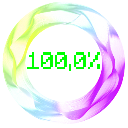
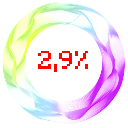
Crystal block WIP...

Changed region(s): [[0.2188, 0.375, 0.7812, 0.5625]]

diff --git a/src/main/java/com/zeitheron/thaumicadditions/blocks/BlockCrystal.java b/src/main/java/com/zeitheron/thaumicadditions/blocks/BlockCrystal.java
@@ -1,0 +1,74 @@
+package com.zeitheron.thaumicadditions.blocks;
+
+import com.pengu.hammercore.common.blocks.base.BlockDeviceHC;
+import com.pengu.hammercore.common.blocks.base.iBlockOrientable;
+import com.pengu.hammercore.common.utils.WorldUtil;
+import com.zeitheron.thaumicadditions.tiles.TileCrystalBlock;
+
+import net.minecraft.block.material.Material;
+import net.minecraft.block.state.IBlockState;
+import net.minecraft.creativetab.CreativeTabs;
+import net.minecraft.entity.EntityLivingBase;
+import net.minecraft.item.ItemStack;
+import net.minecraft.util.EnumFacing;
+import net.minecraft.util.NonNullList;
+import net.minecraft.util.math.BlockPos;
+import net.minecraft.world.IBlockAccess;
+import net.minecraft.world.World;
+import thaumcraft.api.aspects.Aspect;
+import thaumcraft.api.crafting.IInfusionStabiliser;
+
+public class BlockCrystal extends BlockDeviceHC<TileCrystalBlock> implements iBlockOrientable, IInfusionStabiliser
+{
+	public BlockCrystal()
+	{
+		super(Material.ROCK, TileCrystalBlock.class, "crystal_block");
+	}
+	
+	public int getColor(IBlockState state, IBlockAccess worldIn, BlockPos pos, int tintIndex)
+	{
+		TileCrystalBlock tcb = WorldUtil.cast(worldIn.getTileEntity(pos), TileCrystalBlock.class);
+		if(tcb != null)
+			return tcb.getAspect().getColor();
+		return 0xFFFFFF;
+	}
+	
+	@Override
+	public void getSubBlocks(CreativeTabs itemIn, NonNullList<ItemStack> items)
+	{
+		super.getSubBlocks(itemIn, items);
+	}
+	
+	@Override
+	public void getDrops(NonNullList<ItemStack> drops, IBlockAccess world, BlockPos pos, IBlockState state, int fortune)
+	{
+	}
+	
+	@Override
+	public IBlockState getStateForPlacement(World worldIn, BlockPos pos, EnumFacing facing, float hitX, float hitY, float hitZ, int meta, EntityLivingBase placer)
+	{
+		TileCrystalBlock tcb = new TileCrystalBlock();
+		tcb.setAspect(Aspect.AURA);
+		worldIn.setTileEntity(pos, tcb);
+		
+		return getDefaultState().withProperty(iBlockOrientable.FACING, facing);
+	}
+	
+	@Override
+	public boolean canStabaliseInfusion(World worldIn, BlockPos pos)
+	{
+		return true;
+	}
+	
+	@Override
+	public boolean isOpaqueCube(IBlockState state)
+	{
+		return false;
+	}
+	
+	@Override
+	public boolean isFullBlock(IBlockState state)
+	{
+		return false;
+	}
+}

diff --git a/src/main/java/com/zeitheron/thaumicadditions/tiles/TileCrystalBlock.java b/src/main/java/com/zeitheron/thaumicadditions/tiles/TileCrystalBlock.java
@@ -1,0 +1,60 @@
+package com.zeitheron.thaumicadditions.tiles;
+
+import java.util.Random;
+
+import com.pengu.hammercore.common.utils.WorldUtil;
+import com.pengu.hammercore.tile.TileSyncable;
+import com.pengu.hammercore.tile.iTileDroppable;
+import com.zeitheron.thaumicadditions.api.AspectUtil;
+
+import net.minecraft.entity.player.EntityPlayer;
+import net.minecraft.nbt.NBTTagCompound;
+import net.minecraft.util.math.BlockPos;
+import net.minecraft.world.World;
+import net.minecraftforge.common.util.Constants.NBT;
+import thaumcraft.api.aspects.Aspect;
+
+public class TileCrystalBlock extends TileSyncable implements iTileDroppable
+{
+	private Aspect aspect;
+	
+	public Aspect getAspect()
+	{
+		if(aspect == null)
+		{
+			Aspect[] asps = Aspect.aspects.values().toArray(new Aspect[0]);
+			aspect = asps[new Random().nextInt(asps.length)];
+		}
+		
+		return aspect;
+	}
+	
+	public void setAspect(Aspect aspect)
+	{
+		this.aspect = aspect;
+		getAspect();
+		sendChangesToNearby();
+	}
+	
+	@Override
+	public void writeNBT(NBTTagCompound nbt)
+	{
+		if(aspect != null)
+			nbt.setString("Aspect", aspect.getTag());
+	}
+	
+	@Override
+	public void readNBT(NBTTagCompound nbt)
+	{
+		if(nbt.hasKey("Aspect", NBT.TAG_STRING))
+			aspect = Aspect.getAspect(nbt.getString("Aspect"));
+		getAspect();
+	}
+	
+	@Override
+	public void createDrop(EntityPlayer player, World world, BlockPos pos)
+	{
+		if(!world.isRemote && (player == null || !player.capabilities.isCreativeMode) && aspect != null)
+			WorldUtil.spawnItemStack(world, pos, AspectUtil.crystalEssence(getAspect(), 9));
+	}
+}

diff --git a/src/main/java/com/zeitheron/thaumicadditions/proxy/ClientProxy.java b/src/main/java/com/zeitheron/thaumicadditions/proxy/ClientProxy.java
@@ -66,6 +66,7 @@ public class ClientProxy extends CommonProxy
 		// Adding custom color handlers
 		Minecraft.getMinecraft().getItemColors().registerItemColorHandler(ItemsTAR.SALT_ESSENCE::getItemColor, ItemsTAR.SALT_ESSENCE);
 		Minecraft.getMinecraft().getItemColors().registerItemColorHandler(ItemsTAR.ENTITY_CELL::getColor, ItemsTAR.ENTITY_CELL);
+		Minecraft.getMinecraft().getBlockColors().registerBlockColorHandler(BlocksTAR.CRYSTAL_BLOCK::getColor, BlocksTAR.CRYSTAL_BLOCK);
 		
 		// Add custom TESRs
 		
@@ -92,6 +93,18 @@ public class ClientProxy extends CommonProxy
 		ClientRegistry.bindTileEntitySpecialRenderer(TileCrystalBore.class, crybo);
 		ItemRenderingHandler.INSTANCE.setItemRender(Item.getItemFromBlock(BlocksTAR.CRYSTAL_BORE), crybo);
 		Minecraft.getMinecraft().getRenderItem().registerItem(Item.getItemFromBlock(BlocksTAR.CRYSTAL_BORE), 0, "chest");
+		
+		{
+			ModelResourceLocation cryloc = new ModelResourceLocation(BlocksTAR.CRYSTAL_BLOCK.getRegistryName(), "normal");
+			ModelLoader.setCustomStateMapper(BlocksTAR.CRYSTAL_BLOCK, new StateMapperBase()
+			{
+				@Override
+				protected ModelResourceLocation getModelResourceLocation(IBlockState state)
+				{
+					return cryloc;
+				}
+			});
+		}
 		
 		// Fluid state mapping.
 		mapFluid(BlocksTAR.CRYSTAL_WATER);

diff --git a/src/main/java/com/zeitheron/thaumicadditions/init/BlocksTAR.java b/src/main/java/com/zeitheron/thaumicadditions/init/BlocksTAR.java
@@ -6,6 +6,7 @@ import com.zeitheron.thaumicadditions.blocks.BlockAspectCombiner;
 import com.zeitheron.thaumicadditions.blocks.BlockAuraCharger;
 import com.zeitheron.thaumicadditions.blocks.BlockAuraDisperser;
 import com.zeitheron.thaumicadditions.blocks.BlockCraftingFurnace;
+import com.zeitheron.thaumicadditions.blocks.BlockCrystal;
 import com.zeitheron.thaumicadditions.blocks.BlockCrystalBore;
 import com.zeitheron.thaumicadditions.blocks.BlockCrystalCrusher;
 import com.zeitheron.thaumicadditions.blocks.BlockCrystalWater;
@@ -33,6 +34,7 @@ public class BlocksTAR
 	public static final BlockCrystalBore CRYSTAL_BORE = new BlockCrystalBore();
 	public static final BlockEntitySummoner ENTITY_SUMMONER = new BlockEntitySummoner();
 	public static final BlockPuriflower PURIFLOWER = new BlockPuriflower();
+	public static final BlockCrystal CRYSTAL_BLOCK = new BlockCrystal();
 	
 	public static final BlockAbstractEssentiaJar<TileBrassJar> BRASS_JAR = new BlockAbstractEssentiaJar<>(TileBrassJar.class, 275, "jar_brass");
 	public static final BlockAbstractEssentiaJar<TileThaumiumJar> THAUMIUM_JAR = new BlockAbstractEssentiaJar<>(TileThaumiumJar.class, 350, "jar_thaumium");

diff --git a/src/main/java/com/zeitheron/thaumicadditions/TAReconstructed.java b/src/main/java/com/zeitheron/thaumicadditions/TAReconstructed.java
@@ -42,7 +42,7 @@ import thaumcraft.api.research.ResearchCategories;
 import thaumcraft.api.research.ResearchCategory;
 import thaumcraft.common.entities.monster.EntityPech;
 
-@Mod(modid = InfoTAR.MOD_ID, name = InfoTAR.MOD_NAME, version = InfoTAR.MOD_VERSION, certificateFingerprint = "4d7b29cd19124e986da685107d16ce4b49bc0a97", dependencies = "required-after:hammercore;required-after:thaumcraft@[6.1.BETA14,)")
+@Mod(modid = InfoTAR.MOD_ID, name = InfoTAR.MOD_NAME, version = InfoTAR.MOD_VERSION, certificateFingerprint = "4d7b29cd19124e986da685107d16ce4b49bc0a97", dependencies = "required-after:hammercore;required-after:thaumcraft@[6.1.BETA13,);before:iceandfire")
 public class TAReconstructed
 {
 	public static final Logger LOG = LogManager.getLogger(InfoTAR.MOD_NAME);
@@ -68,6 +68,7 @@ public class TAReconstructed
 	@EventHandler
 	public void construct(FMLConstructionEvent e)
 	{
+		MinecraftForge.EVENT_BUS.register(proxy);
 		proxy.construct();
 	}
 	
